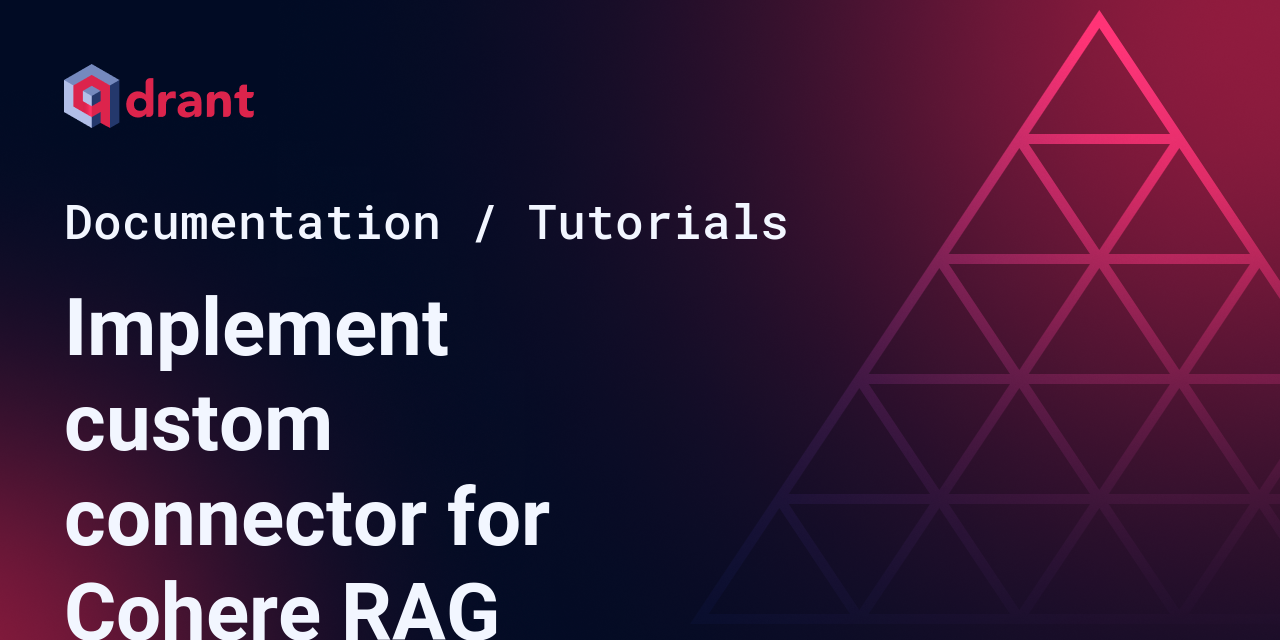
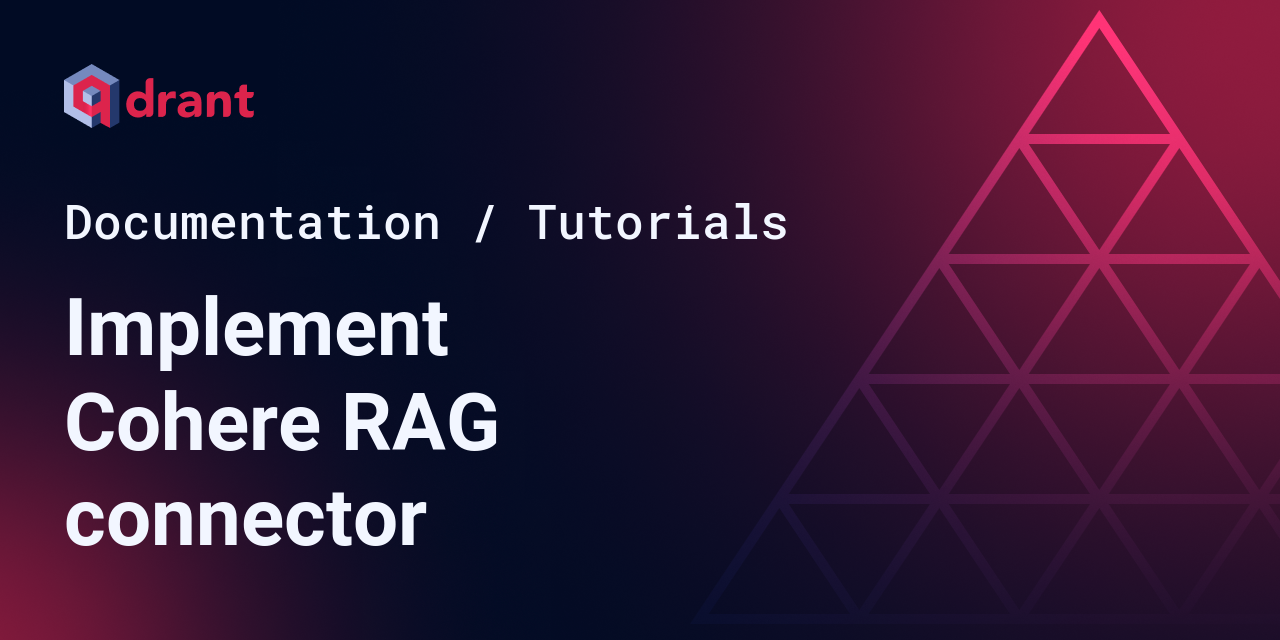
Change the social preview image (previous was too long)

Changed region(s): [[0.0312, 0.5938, 0.4062, 0.7188], [0.0312, 0.9062, 0.4062, 1.0], [0.3438, 0.75, 0.4375, 0.875]]

diff --git a/qdrant-landing/content/documentation/tutorials/cohere-rag-connector.md b/qdrant-landing/content/documentation/tutorials/cohere-rag-connector.md
@@ -1,5 +1,5 @@
 ---
-title: Implement custom connector for Cohere RAG
+title: Implement Cohere RAG connector
 weight: 24
 ---
 
